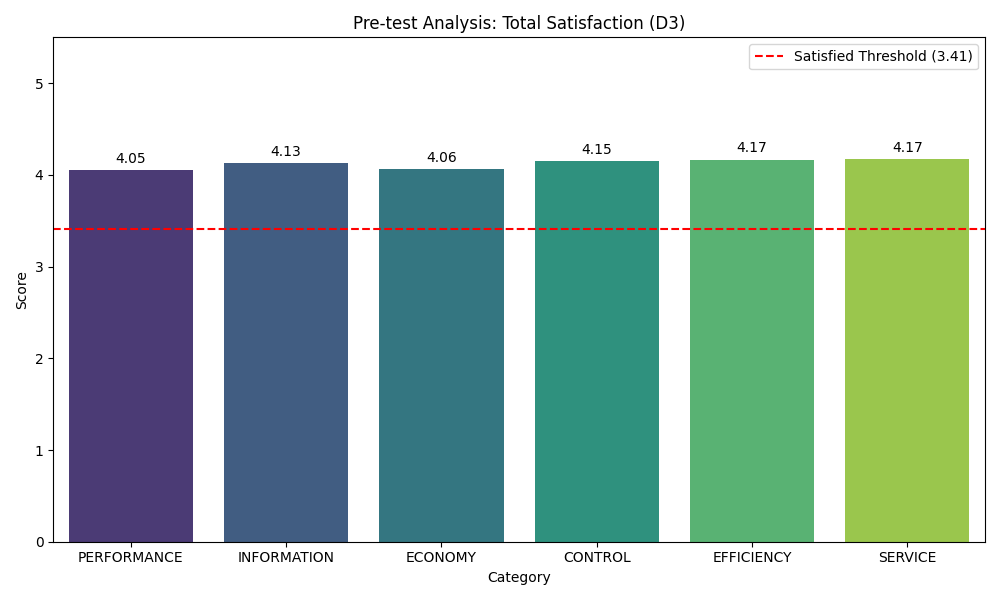
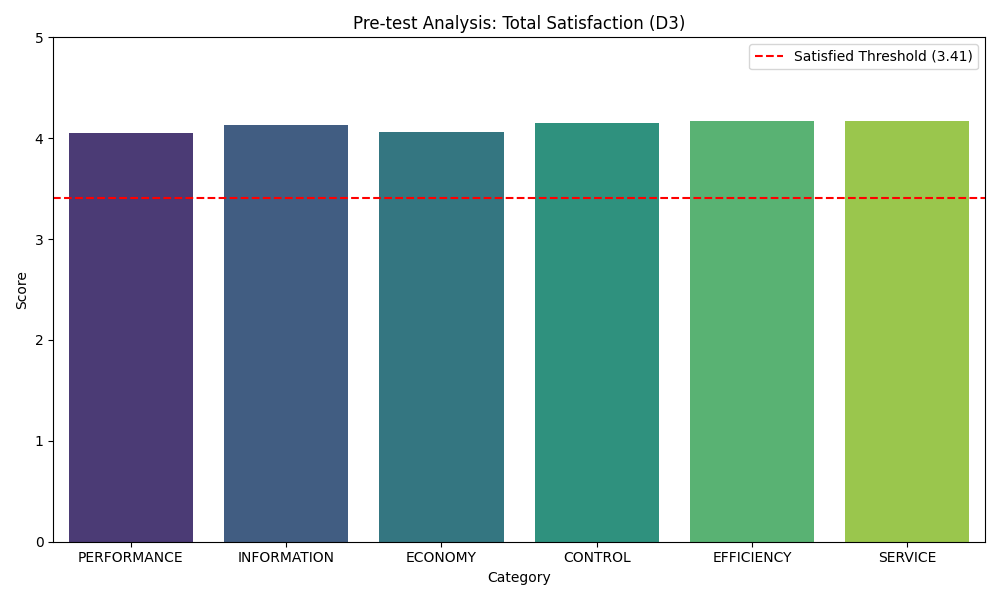
style: remove numeric labels from bar charts and reset y-axis limit

Changed region(s): [[0.062, 0.18, 0.992, 0.3]]

diff --git a/pieces_analysis.py b/pieces_analysis.py
@@ -100,13 +100,7 @@ def main():
         plt.figure(figsize=(10, 6))
         # Fix: Assign hue to avoid FutureWarning
         ax = sns.barplot(x='Category', y='Score', hue='Category', data=res_df, palette='viridis', legend=False)
-        # Add labels on top of bars
-        for container in ax.containers:
-            # Fix: Type checking for BarContainer
-            if isinstance(container, BarContainer):
-                ax.bar_label(container, fmt='%.2f', padding=3)
-            
-        plt.ylim(0, 5.5)  # Slightly higher to accommodate labels
+        plt.ylim(0, 5)
         plt.title(f'Pre-test Analysis: Total Satisfaction ({prog})')
         plt.axhline(y=3.41, color='red', linestyle='--', label='Satisfied Threshold (3.41)')
         plt.legend()
@@ -135,13 +129,7 @@ def main():
                                var_name='Program', value_name='Score')
     plt.figure(figsize=(12, 7))
     ax = sns.barplot(x='Category', y='Score', hue='Program', data=comp_melted, palette='Set2')
-    # Add labels on top of bars
-    for container in ax.containers:
-        # Fix: Type checking for BarContainer
-        if isinstance(container, BarContainer):
-            ax.bar_label(container, fmt='%.2f', padding=3)
-        
-    plt.ylim(0, 5.5)
+    plt.ylim(0, 5)
     plt.title('Pre-test Analysis Comparison: D3 vs D4 (K1+K2 Merged)')
     plt.axhline(y=3.41, color='gray', linestyle='--', alpha=0.5)
     plt.legend()
